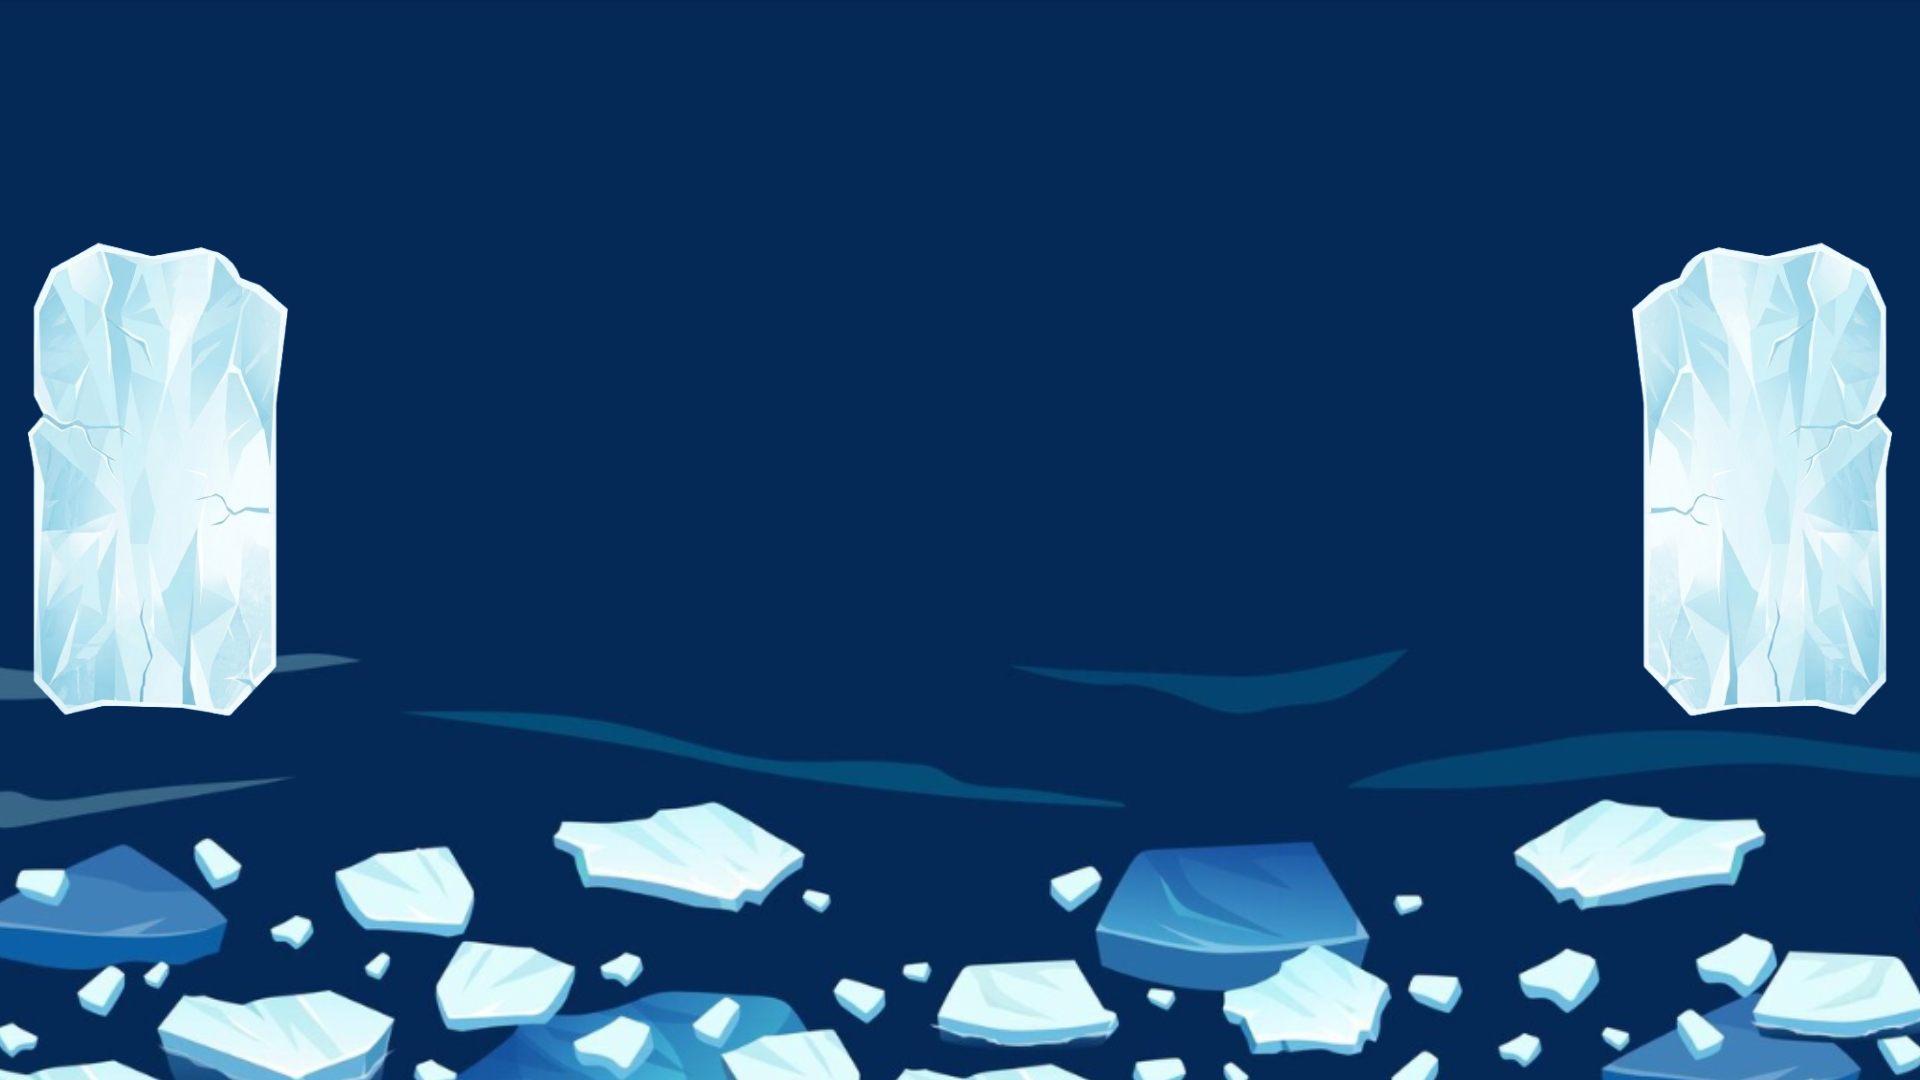
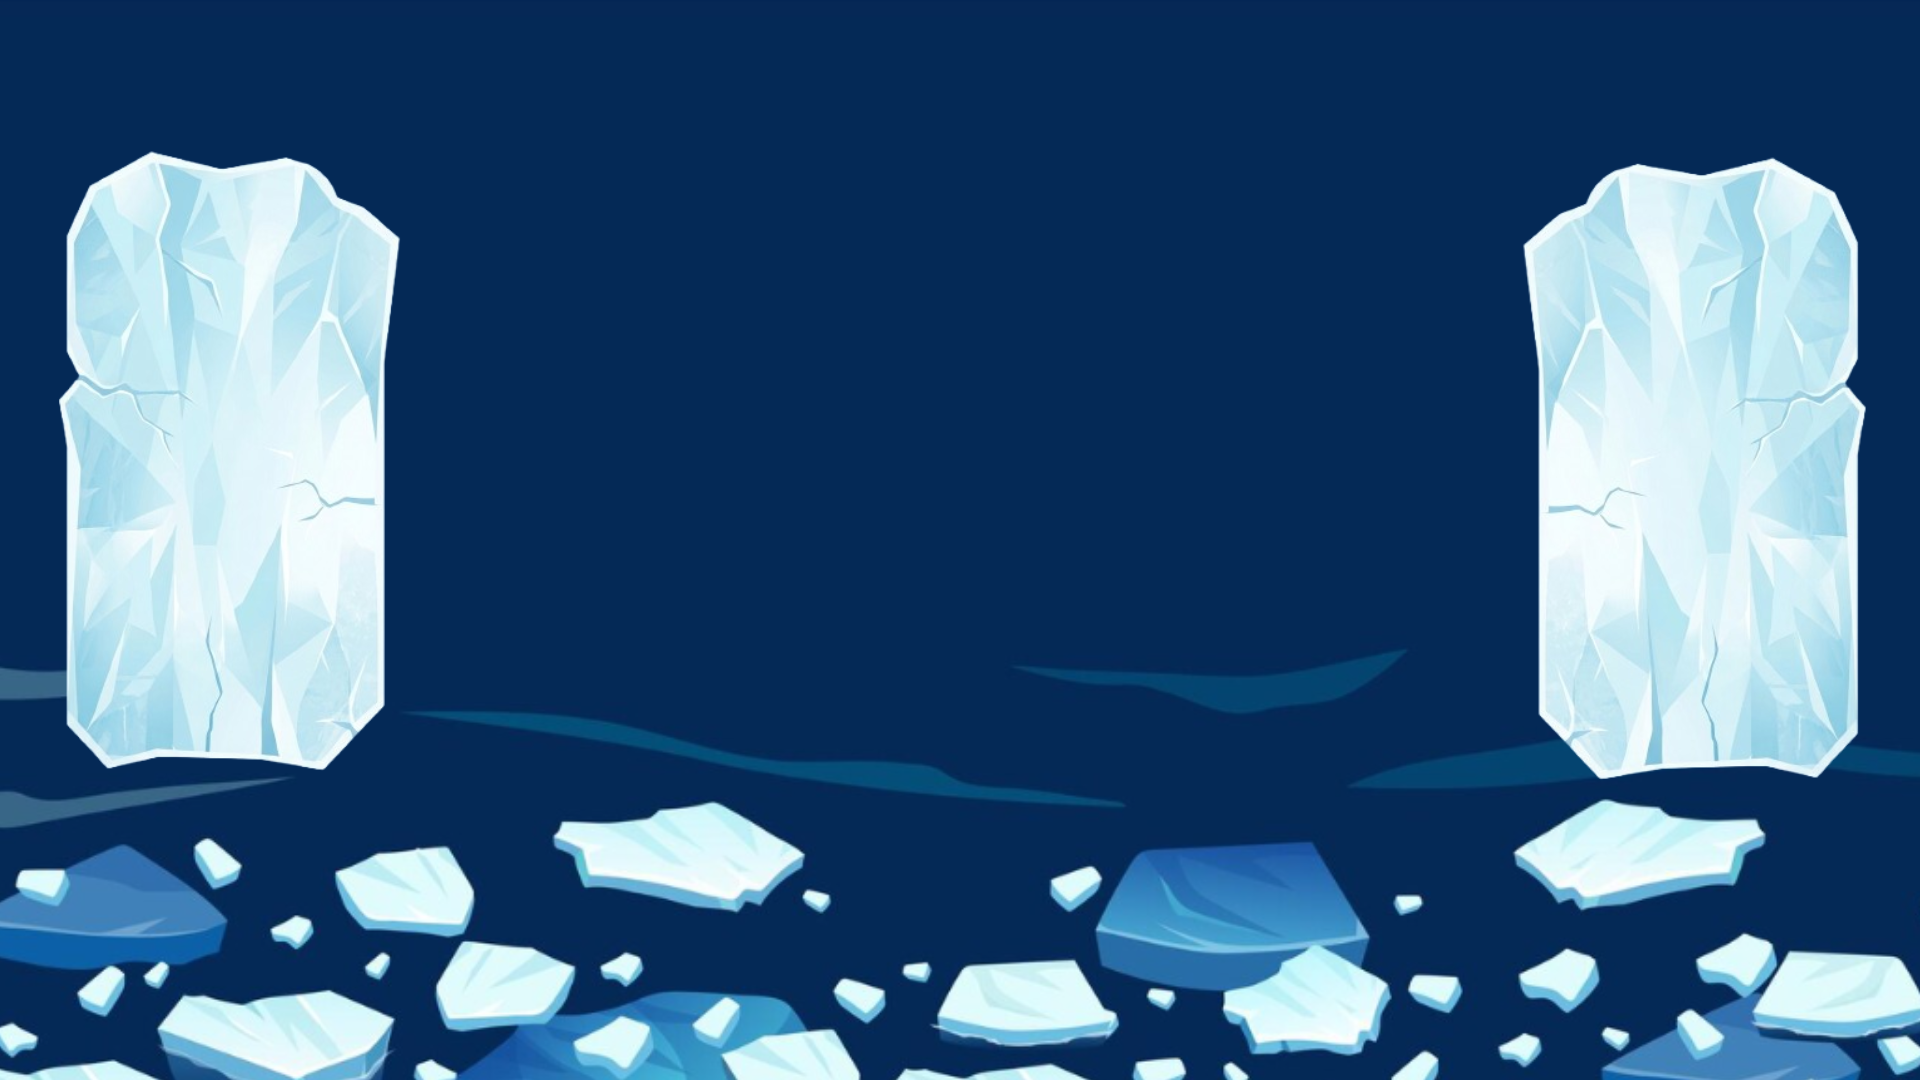
mejoras esteticas

Changed region(s): [[0.7812, 0.1528, 1.0, 0.7333], [0.0, 0.1222, 0.2188, 0.7333]]

diff --git a/Joc_Pingu_Oreo/src/RESOURCES/PantallaJuego.css b/Joc_Pingu_Oreo/src/RESOURCES/PantallaJuego.css
@@ -43,43 +43,44 @@
 
 /* TARJETAS GLASSMORPHISM */
 .card {
-    -fx-background-color: rgba(15, 30, 60, 0.75);
+    -fx-background-color: rgba(255, 255, 255, 0.35);
     -fx-background-radius: 20;
     -fx-padding: 18;
-    -fx-border-color: rgba(255, 255, 255, 0.25);
+    -fx-border-color: rgba(255, 255, 255, 0.8);
     -fx-border-width: 1.5;
     -fx-border-radius: 20;
 
-    -fx-effect: dropshadow(gaussian, rgba(0, 0, 0, 0.5), 15, 0.1, 0, 8);
+    -fx-effect: dropshadow(gaussian, rgba(0, 0, 0, 0.2), 15, 0.1, 0, 5);
 }
 
 .card-title {
     -fx-font-size: 18px;
-    -fx-font-weight: 800;
-    -fx-text-fill: #90cdf4;
+    -fx-font-weight: 900;
+    -fx-text-fill: #0c4a6e;
 }
 
 .big-text {
     -fx-font-size: 22px;
     -fx-font-weight: bold;
-    -fx-fill: #ffffff;
-    -fx-text-fill: #ffffff;
+    -fx-fill: #0c4a6e;
+    -fx-text-fill: #0c4a6e;
 }
 
 .stat {
     -fx-font-size: 15px;
-    -fx-font-weight: 600;
-    -fx-fill: #e2e8f0;
-    -fx-text-fill: #e2e8f0;
+    -fx-font-weight: 700;
+    -fx-fill: #1e293b;
+    -fx-text-fill: #1e293b;
 }
 
 /* LOG DE EVENTOS (TextArea) */
 .events-log {
     -fx-font-size: 13px;
     -fx-font-family: "Consolas", "Courier New", monospace;
-    -fx-control-inner-background: rgba(10, 15, 35, 0.85);
-    -fx-text-fill: #63b3ed;
-    -fx-border-color: rgba(255, 255, 255, 0.15);
+    -fx-font-weight: bold;
+    -fx-control-inner-background: rgba(255, 255, 255, 0.45);
+    -fx-text-fill: #0f172a;
+    -fx-border-color: rgba(255, 255, 255, 0.5);
     -fx-border-radius: 12;
     -fx-background-radius: 12;
     -fx-focus-color: transparent;
@@ -87,7 +88,7 @@
 }
 
 .events-log .content {
-    -fx-background-color: rgba(10, 15, 35, 0.85);
+    -fx-background-color: rgba(255, 255, 255, 0.45);
 }
 
 .events-log .scroll-pane {

diff --git a/Joc_Pingu_Oreo/src/VISTA/PantallaJuego.java b/Joc_Pingu_Oreo/src/VISTA/PantallaJuego.java
@@ -60,6 +60,8 @@ public class PantallaJuego {
 	@FXML private Text peces_t;
 	@FXML private Text nieve_t;
 	@FXML private Text moto_t;
+	@FXML private Button btnPeces;
+	@FXML private Button btnNieve;
 	@FXML private Button btnMoto;
 	@FXML private Button btnSettings;
 	@FXML private Button btnDadoRapido;
@@ -189,6 +191,8 @@ public class PantallaJuego {
 		if (j1 instanceof Foca) {
 			dado.setDisable(true);
 			btnMoto.setDisable(true);
+			btnPeces.setDisable(true);
+			btnNieve.setDisable(true);
 			cpuPauseTransition = new PauseTransition(Duration.millis(1500));
 			cpuPauseTransition.setOnFinished(e -> {
 				currentAnimations.remove(cpuPauseTransition);
@@ -220,6 +224,8 @@ public class PantallaJuego {
 		btnDadoRapido.setDisable(true);
 		btnDadoLento.setDisable(true);
 		btnMoto.setDisable(true);
+		btnPeces.setDisable(true);
+		btnNieve.setDisable(true);
 
 		// 1. Animación visual del botón (vibración)
 		RotateTransition rt = new RotateTransition(Duration.millis(80), dado);
@@ -288,6 +294,8 @@ public class PantallaJuego {
 			moto_t.setText("Moto de Nieve: " + cantMotos);
 			
 			btnMoto.setDisable(cantMotos <= 0);
+			btnPeces.setDisable(cantPeces <= 0);
+			btnNieve.setDisable(cantBolas <= 0);
 			
 			// Dados especiales
 			int cantRapidos = jActual.getInventario().getDadosRapidos();
@@ -303,6 +311,8 @@ public class PantallaJuego {
 			nieve_t.setText("Bolas de nieve: -");
 			moto_t.setText("Moto de Nieve: -");
 			btnMoto.setDisable(true);
+			btnPeces.setDisable(true);
+			btnNieve.setDisable(true);
 			btnDadoRapido.setDisable(true);
 			btnDadoLento.setDisable(true);
 			lblCantRapido.setText("Rápido: -");
@@ -654,6 +664,8 @@ public class PantallaJuego {
 		// Animar el movimiento
 		dado.setDisable(true);
 		btnMoto.setDisable(true);
+		btnPeces.setDisable(true);
+		btnNieve.setDisable(true);
 		
 		int posVisualFinal = Math.max(0, Math.min(siguienteTrineo, 49));
 		animarMovimiento(indiceActual, posVisualFinal, () -> {
@@ -680,6 +692,46 @@ public class PantallaJuego {
 				dado.setDisable(false);
 			}
 		});
+	}
+
+	// =========================================
+	//  HANDLER USAR PECES Y NIEVE
+	// =========================================
+
+	@FXML
+	private void handleUsarPeces() {
+		if (isPaused) return;
+		Jugador jugadorActual = gestorPartida.getPartida().getJugadorActual();
+		if (!(jugadorActual instanceof Pinguino)) return;
+		Pinguino p = (Pinguino) jugadorActual;
+		
+		if (!p.tieneItem("Pez")) {
+			agregarEvento("⚠ " + p.getNombre() + " no tiene Peces.");
+			return;
+		}
+		
+		p.gastarItem("Pez", 1);
+		agregarEvento("───────────────────────");
+		agregarEvento("🐟 " + p.getNombre() + " usa un Pez!");
+		actualizarInventarioUI();
+	}
+
+	@FXML
+	private void handleUsarNieve() {
+		if (isPaused) return;
+		Jugador jugadorActual = gestorPartida.getPartida().getJugadorActual();
+		if (!(jugadorActual instanceof Pinguino)) return;
+		Pinguino p = (Pinguino) jugadorActual;
+		
+		if (!p.tieneItem("Bola de Nieve")) {
+			agregarEvento("⚠ " + p.getNombre() + " no tiene Bolas de Nieve.");
+			return;
+		}
+		
+		p.gastarItem("Bola de Nieve", 1);
+		agregarEvento("───────────────────────");
+		agregarEvento("❄ " + p.getNombre() + " usa una Bola de Nieve!");
+		actualizarInventarioUI();
 	}
 
 	// =========================================
@@ -761,6 +813,8 @@ public class PantallaJuego {
 			agregarEvento("═══════════════════════");
 			dado.setDisable(true);
 			btnMoto.setDisable(true);
+			btnPeces.setDisable(true);
+			btnNieve.setDisable(true);
 		} else {
 			// Actualizar inventario para el SIGUIENTE jugador
 			actualizarInventarioUI();
@@ -770,6 +824,8 @@ public class PantallaJuego {
 			if (sigJ instanceof Foca) {
 				dado.setDisable(true);
 				btnMoto.setDisable(true);
+				btnPeces.setDisable(true);
+				btnNieve.setDisable(true);
 				cpuPauseTransition = new PauseTransition(Duration.millis(1500));
 				cpuPauseTransition.setOnFinished(e -> {
 					currentAnimations.remove(cpuPauseTransition);
@@ -923,6 +979,8 @@ public class PantallaJuego {
 		if (jActual instanceof Foca) {
 			dado.setDisable(true);
 			btnMoto.setDisable(true);
+			btnPeces.setDisable(true);
+			btnNieve.setDisable(true);
 			PauseTransition pausa = new PauseTransition(Duration.millis(1500));
 			pausa.setOnFinished(e -> handleDado(null));
 			pausa.play();
